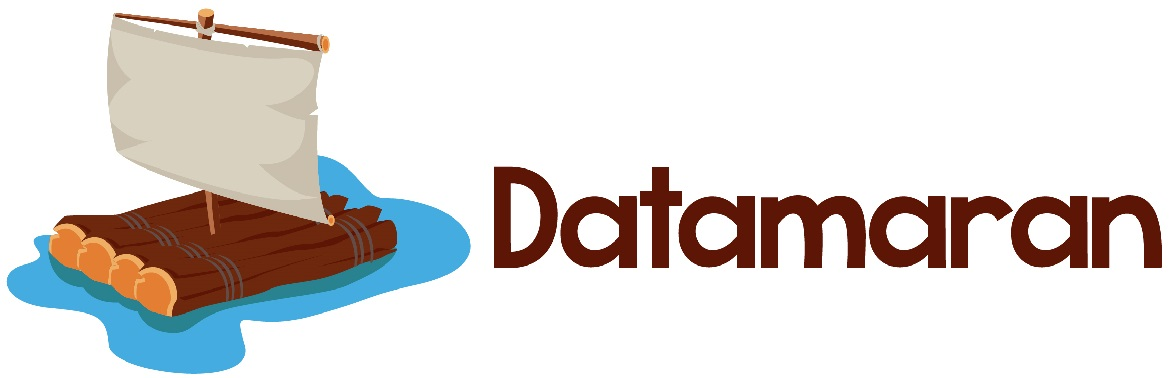
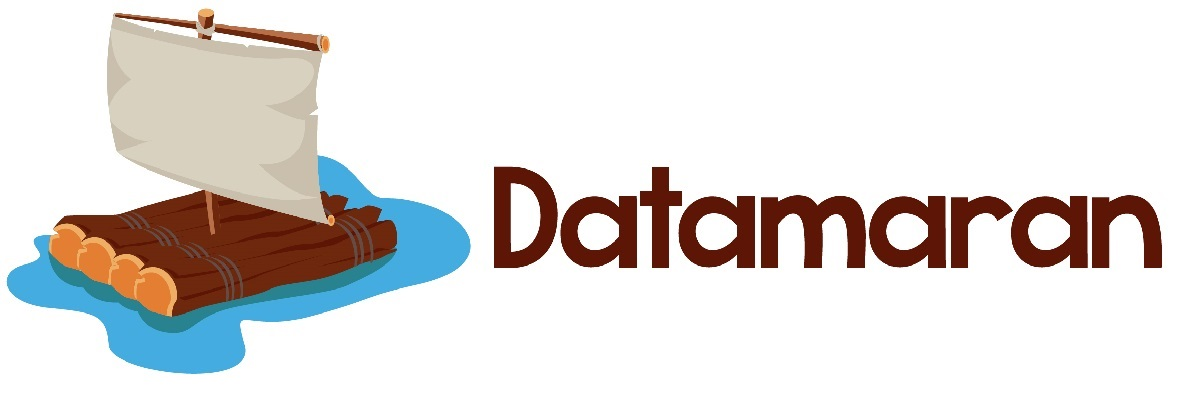
update css

Changed region(s): [[0.0, 0.0291, 1.0, 0.9894], [0.0918, 0.3783, 0.1224, 0.4365]]

diff --git a/catamaran/style.css b/catamaran/style.css
@@ -34,6 +34,6 @@ td {
 }
 
 #Datamaran_logo {
-	width: 325px;
-	height: 300px;
+	width: 600px;
+	height: 200px;
 }
